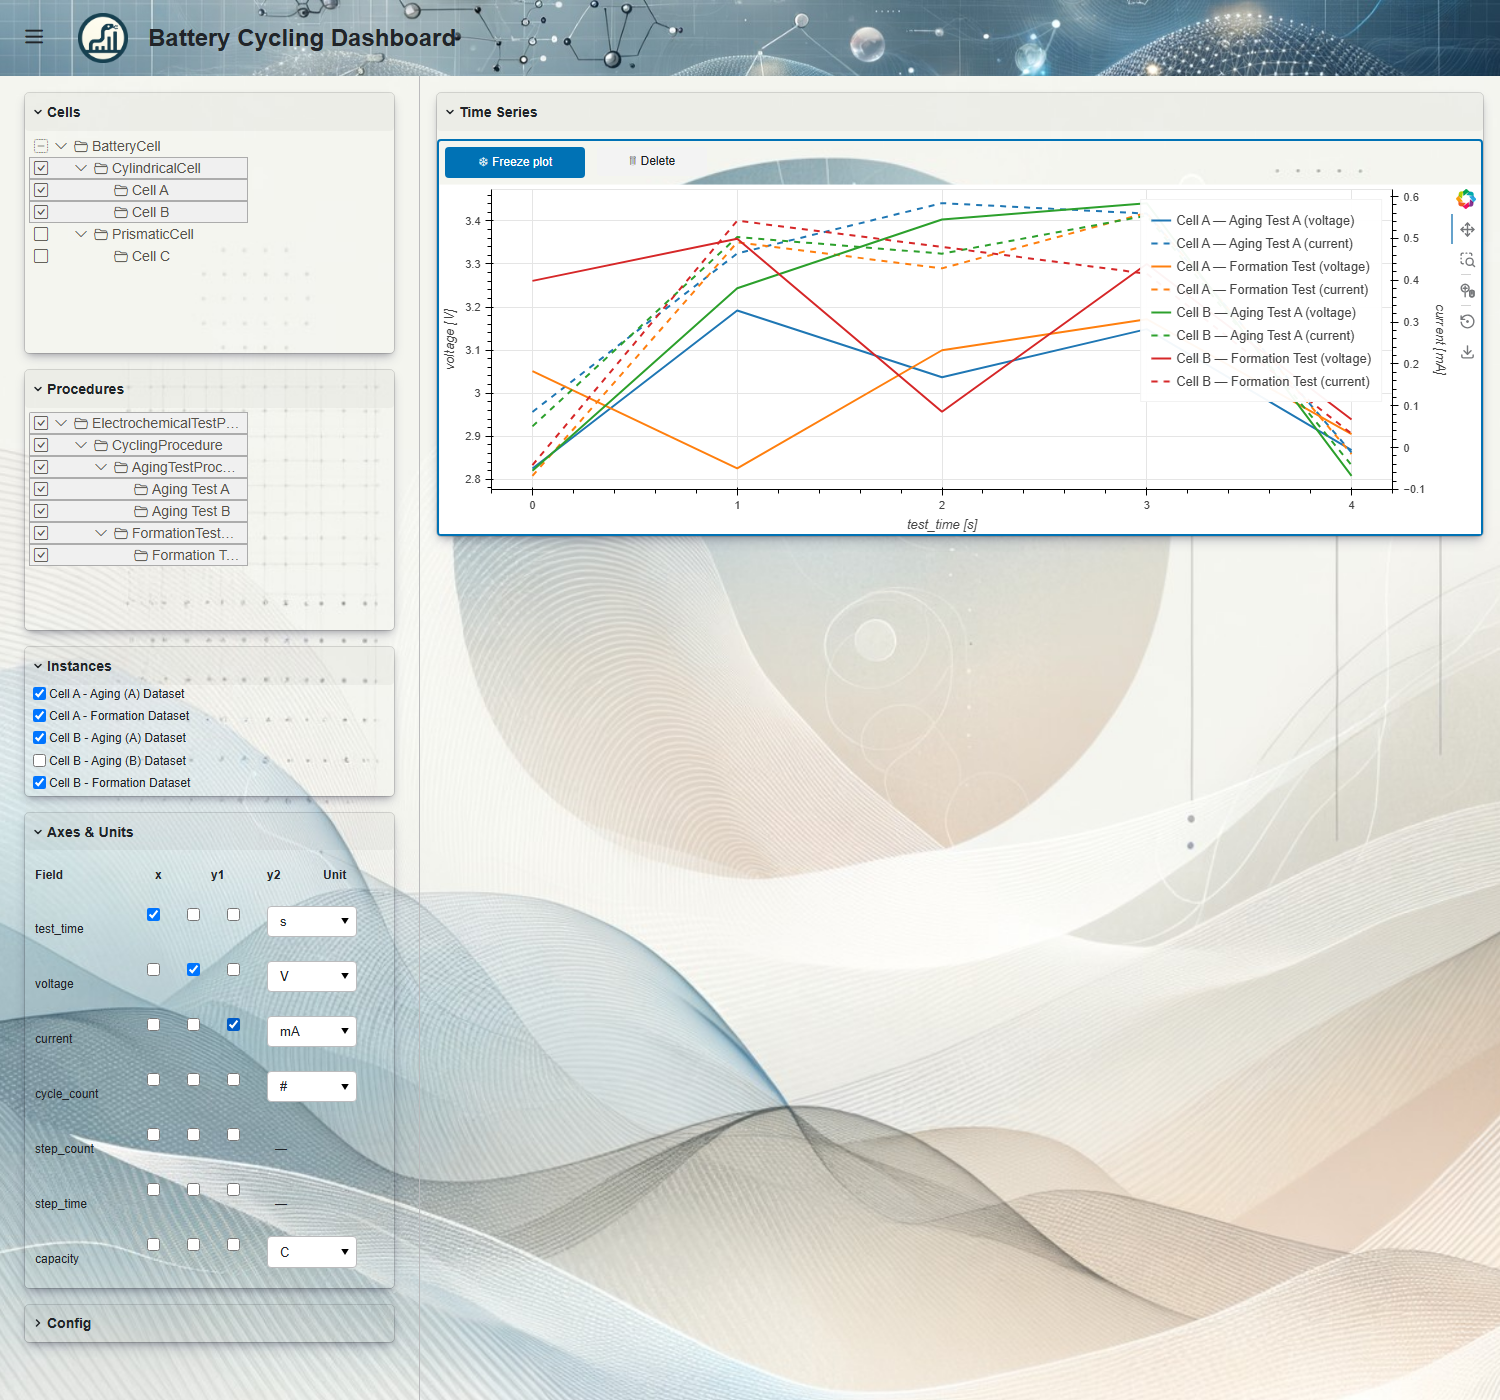
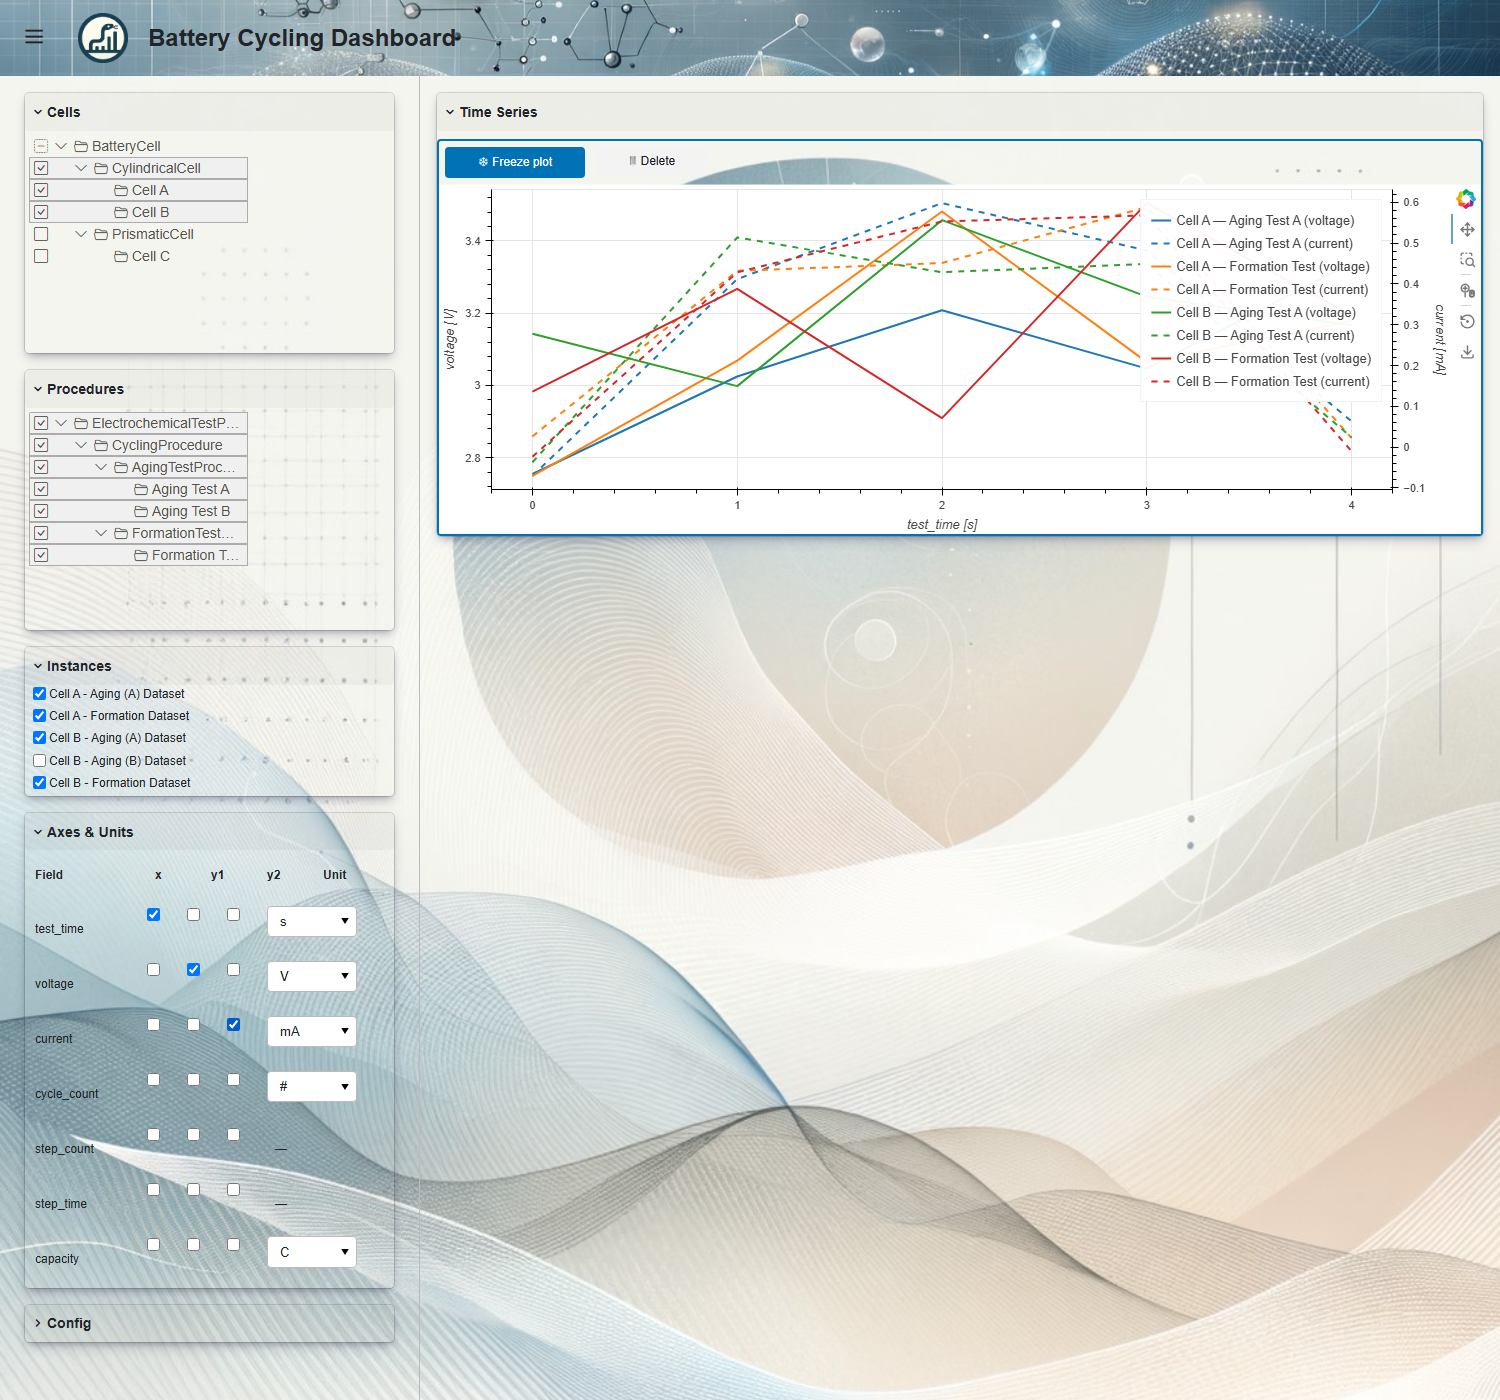
feat : now includes freeze

Changed region(s): [[0.3373, 0.1536, 0.7667, 0.3379], [0.8587, 0.2764, 0.92, 0.3379], [0.46, 0.3071, 0.5213, 0.3379]]

diff --git a/docs/media/generate_battery_dashboard.py b/docs/media/generate_battery_dashboard.py
@@ -13,6 +13,15 @@ The story the GIF tells (a fuller walk-through than the Maccor demo):
   5. Put ``current`` on the y2 (right) axis in Axes & Units -> a second axis
      appears with the current traces.
   6. Switch the current unit from A to mA -> the right axis rescales.
+  7. Freeze the busy plot -> a static snapshot is pinned below the live one.
+  8. Re-select in the live plot: only the Prismatic cell (Cell C) and only the
+     Formation Test -> the active plot collapses to a single Cell C trace,
+     contrasting with the frozen busy snapshot above it.
+  9. Unfreeze the snapshot -> it becomes active again (restoring the busy
+     round-cells selection into the sidebar) and the Cell C plot freezes.
+
+Cell C (Prismatic) has only a Formation test in the sample data, so Formation
+is the procedure paired with it in step 8.
 
 Prerequisites:
     pip install -e ".[docs]"      # playwright + imageio
@@ -29,6 +38,7 @@ from _screenshot_utils import (
     capture,
     click_tree_checkbox,
     open_sidebar,
+    real_click_by_text,
     set_axis,
     set_unit,
     start_server,
@@ -46,11 +56,15 @@ URL = f"http://localhost:{PORT}/battery_dashboard"
 # Units grid) is on-screen — the axis/unit helpers click by viewport geometry.
 VIEWPORT = {"width": 1500, "height": 1400}
 
-# Cell-tree checkbox order (selectMode: hier): 0 BatteryCell (root), 1
-# CylindricalCell (-> Cell A, Cell B = the round cells), 4 PrismaticCell.
+# Cell-tree checkbox order (selectMode: hier): 0 BatteryCell (root),
+# 1 CylindricalCell (-> Cell A, Cell B = the round cells), 4 PrismaticCell
+# (-> Cell C). Proc-tree order: 0 root (ElectrochemicalTestProcedure),
+# 5 FormationTestProcedure, 6 the Formation Test instance beneath it.
 CELL_TREE, PROC_TREE = 0, 1
 CYLINDRICAL_CB = 1
+PRISMATIC_CB = 4
 PROC_ROOT_CB = 0
+FORMATION_CB = 6
 
 GIF_OUT = os.path.join(MEDIA_DIR, "battery_dashboard.gif")
 PNG_OUT = os.path.join(MEDIA_DIR, "battery_dashboard.png")
@@ -93,6 +107,24 @@ def main():
             print("  mA:", set_unit(page, "current", "mA"))
             capture(page, frames, 2500)  # right axis rescales
             plot_frame = frames[-1]
+
+            print("Freeze the busy plot...")
+            print("  freeze:", real_click_by_text(page, "Freeze plot"))
+            capture(page, frames, 2000)  # snapshot pinned below the live plot
+
+            print("Re-select: only the Prismatic cell (Cell C)...")
+            print("  uncheck round:", click_tree_checkbox(page, CELL_TREE, CYLINDRICAL_CB))
+            print("  prismatic:", click_tree_checkbox(page, CELL_TREE, PRISMATIC_CB))
+            capture(page, frames, 1500)
+
+            print("Re-select: only the Formation Test...")
+            print("  clear procs:", click_tree_checkbox(page, PROC_TREE, PROC_ROOT_CB))
+            print("  formation:", click_tree_checkbox(page, PROC_TREE, FORMATION_CB))
+            capture(page, frames, 3000)  # active plot collapses to one Cell C trace
+
+            print("Unfreeze the previous (busy) plot...")
+            print("  unfreeze:", real_click_by_text(page, "Unfreeze"))
+            capture(page, frames, 2500)  # busy selection restored as active
             capture(page, frames, 1500)  # hold on the final result
     finally:
         stop_server(proc)

diff --git a/docs/media/_screenshot_utils.py b/docs/media/_screenshot_utils.py
@@ -202,6 +202,34 @@ def set_axis(page, field, axis):
     return True
 
 
+def real_click_by_text(page, text):
+    """Real-mouse-click the first ``<button>`` whose label contains ``text``.
+
+    Panel ``Button`` widgets (Freeze plot / Unfreeze) ignore a synthetic
+    ``el.click()``; drive the Playwright mouse at the button center instead.
+    Searches every shadow DOM. Returns True if a button was found.
+    """
+    pos = page.evaluate(
+        """(t) => {
+            %s
+            for (const el of allEls(document)){
+                if (el.tagName === 'BUTTON' && (el.textContent || '').includes(t)){
+                    const b = el.getBoundingClientRect();
+                    if (b.width > 0 && b.height > 0)
+                        return {x: b.left + b.width / 2, y: b.top + b.height / 2};
+                }
+            }
+            return null;
+        }"""
+        % _ROW_CENTER_JS,
+        text,
+    )
+    if not pos:
+        return False
+    _real_click(page, pos)
+    return True
+
+
 def toggle_row_checkbox(page, text):
     """Real-click the single checkbox on the row whose label contains ``text``.
 
